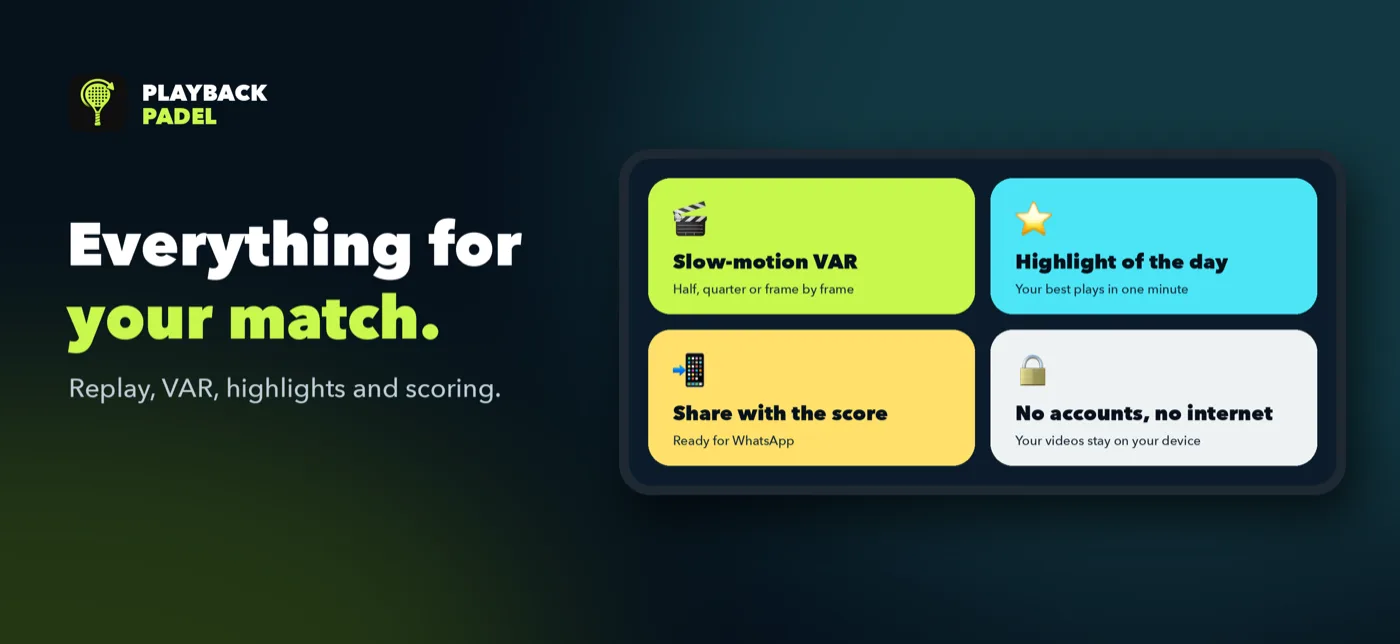
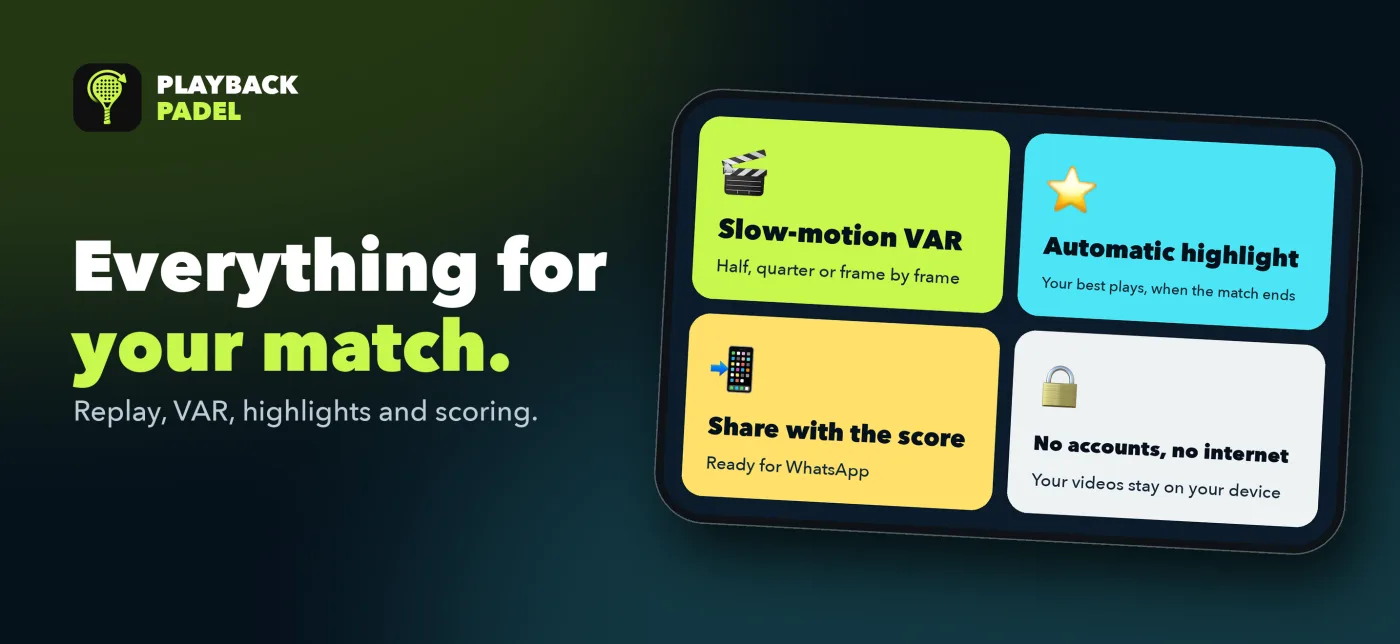
Pantallas de la versión 1.7 en la galería y slide de varias cámaras
Reemplaza las 4 capturas por las nuevas del App Store, agrega la slide ancha
de cámaras (es/en), actualiza el copy en los 8 idiomas y cache-bust ?v=2.

diff --git a/app.js b/app.js
@@ -37,7 +37,8 @@ const copy = {
     shotsEyebrow: 'LA APP POR DENTRO', shotsTitle: 'Así se ve<br>en la cancha.',
     shotScore: 'Marcador a pantalla completa, con sets, juegos y puntos.', shotScoreAlt: 'Marcador de PlayBack Padel a pantalla completa: Equipo A 40, Equipo B 30, con los sets',
     shotGestures: 'Tres gestos para manejar el partido sin tocar el celular.', shotGesturesAlt: 'Gestos de PlayBack Padel: señalar para sumar un punto, palma abierta para guardar la jugada y dos palmas para el VAR',
-    shotFeatures: 'VAR, highlight del día, compartir con marcador y sin cuentas.', shotFeaturesAlt: 'Funciones de PlayBack Padel: VAR en cámara lenta, highlight del día, compartir con marcador, sin cuentas ni internet',
+    shotFeatures: 'VAR, highlight automático, compartir con marcador y sin cuentas.', shotFeaturesAlt: 'Funciones de PlayBack Padel: VAR en cámara lenta, highlight automático, compartir con marcador, sin cuentas ni internet',
+    shotCameras: 'Todos los ángulos de cada punto, con varias cámaras conectadas.', shotCamerasAlt: 'Jugadas de PlayBack Padel con la insignia de varios ángulos y los botones para cambiar de cámara: Principal, iPad de Ana, iPhone de Bruno',
     shotHistory: 'Historial de partidos con sus jugadas.', shotHistoryAlt: 'Historial de partidos de PlayBack Padel',
     watchTitle: 'También en tu muñeca', watchText: 'Con el Apple Watch sumás puntos, deshacés, guardás la jugada y abrís el VAR sin tocar el iPhone de la reja. Es opcional.',
     watch1Alt: 'Apple Watch con el puntaje 40–30 y los botones +1, deshacer, guardar jugada y VAR', watch2Alt: 'Apple Watch con el aviso para activar el puntaje en el iPhone', watch3Alt: 'Apple Watch con el aviso de partido terminado',
@@ -92,7 +93,8 @@ const copy = {
     shotsEyebrow: 'INSIDE THE APP', shotsTitle: 'This is how it looks<br>on court.',
     shotScore: 'Full-screen scoreboard with sets, games and points.', shotScoreAlt: 'PlayBack Padel full-screen scoreboard: Team A 40, Team B 30, with the sets',
     shotGestures: 'Three gestures to run the match without touching the phone.', shotGesturesAlt: 'PlayBack Padel gestures: point to score, open palm to save the play, two palms for VAR',
-    shotFeatures: 'VAR, highlight of the day, share with the score and no accounts.', shotFeaturesAlt: 'PlayBack Padel features: slow-motion VAR, highlight of the day, share with the score, no accounts or internet',
+    shotFeatures: 'VAR, automatic highlight, share with the score and no accounts.', shotFeaturesAlt: 'PlayBack Padel features: slow-motion VAR, automatic highlight, share with the score, no accounts or internet',
+    shotCameras: 'Every angle of the point, with several cameras connected.', shotCamerasAlt: 'PlayBack Padel plays with the badge for several angles and the buttons to switch cameras: Main, iPad de Ana, iPhone de Bruno',
     shotHistory: 'Match history with its plays.', shotHistoryAlt: 'PlayBack Padel match history',
     watchTitle: 'On your wrist too', watchText: 'With the Apple Watch you add points, undo, save the play and open VAR without touching the iPhone on the fence. It is optional.',
     watch1Alt: 'Apple Watch showing the 40–30 score with +1, undo, save play and VAR buttons', watch2Alt: 'Apple Watch with the notice to turn scoring on on the iPhone', watch3Alt: 'Apple Watch with the match finished notice',
@@ -116,8 +118,8 @@ const copy = {
 // Screenshots differ by language only in their text, so each language names its own files.
 // The new languages reuse the English images and video (their text is part of the picture).
 const shots = {
-  es: { scoreboard: 'slide-es-scoreboard', gestures: 'slide-es-gestures', features: 'slide-es-features', matches: 'slide-es-matches', watch1: 'watch-es-01-partido', watch2: 'watch-es-02-puntaje-apagado', watch3: 'watch-es-03-partido-terminado' },
-  en: { scoreboard: 'slide-en-scoreboard', gestures: 'slide-en-gestures', features: 'slide-en-features', matches: 'slide-en-matches', watch1: 'watch-en-01-match', watch2: 'watch-en-02-scoring-off', watch3: 'watch-en-03-match-finished' }
+  es: { scoreboard: 'slide-es-scoreboard', gestures: 'slide-es-gestures', cameras: 'slide-es-cameras', features: 'slide-es-features', matches: 'slide-es-matches', watch1: 'watch-es-01-partido', watch2: 'watch-es-02-puntaje-apagado', watch3: 'watch-es-03-partido-terminado' },
+  en: { scoreboard: 'slide-en-scoreboard', gestures: 'slide-en-gestures', cameras: 'slide-en-cameras', features: 'slide-en-features', matches: 'slide-en-matches', watch1: 'watch-en-01-match', watch2: 'watch-en-02-scoring-off', watch3: 'watch-en-03-match-finished' }
 };
 
 // Spanish and English are here; every other language is a small file (copy/<code>.js) loaded only when it is needed.
@@ -161,7 +163,7 @@ function render() {
   document.title = text.title;
   document.querySelector('meta[name="description"]').setAttribute('content', text.description);
   document.querySelectorAll('[data-i18n]').forEach(el => { el.innerHTML = text[el.dataset.i18n]; });
-  document.querySelectorAll('[data-shot]').forEach(img => { img.src = `assets/shots/${shots[imageLanguage(lang)][img.dataset.shot]}.webp`; });
+  document.querySelectorAll('[data-shot]').forEach(img => { img.src = `assets/shots/${shots[imageLanguage(lang)][img.dataset.shot]}.webp?v=2`; });
   const demo = document.getElementById('demo-video');
   if (demo) {
     const media = imageLanguage(lang);

diff --git a/styles.css b/styles.css
@@ -2,7 +2,7 @@
 .notfound{min-height:100vh}
 .features h2{font-size:clamp(40px,4.4vw,64px);line-height:.95}
 
-.shots,.faq{padding:12vh 8vw}.shots{background:var(--paper)}.shot-row{display:grid;grid-template-columns:repeat(2,1fr);gap:28px;margin-top:40px}.shot{margin:0}.shot img{display:block;width:100%;height:auto;border-radius:18px;border:1px solid var(--line);background:var(--ink)}.shot figcaption{margin-top:12px;font-size:14px;font-weight:700}
+.shots,.faq{padding:12vh 8vw}.shots{background:var(--paper)}.shot-row{display:grid;grid-template-columns:repeat(2,1fr);gap:28px;margin-top:40px}.shot{margin:0}.shot.wide{grid-column:1/-1}.shot img{display:block;width:100%;height:auto;border-radius:18px;border:1px solid var(--line);background:var(--ink)}.shot figcaption{margin-top:12px;font-size:14px;font-weight:700}
 .watch-block{display:grid;grid-template-columns:1fr 1.3fr;gap:5vw;align-items:center;margin-top:64px;padding:36px;background:var(--ink);color:#fff;border-radius:24px}.watch-copy h3{margin:0 0 10px;font-size:clamp(24px,3vw,34px)}.watch-copy p{margin:0;line-height:1.6;color:rgba(255,255,255,.82)}.watch-shots{display:grid;grid-template-columns:repeat(3,1fr);gap:14px}.watch-shots figure{margin:0}.watch-shots img{display:block;width:100%;height:auto;border-radius:22px;background:#000}
 .shots-note{margin:22px 0 0;font-size:13px;opacity:.65}
 .faq{background:#fff;border-top:1px solid var(--line)}.faq-list{margin-top:36px;max-width:820px}.faq details{border-bottom:1px solid var(--line);padding:4px 0}.faq summary{cursor:pointer;list-style:none;padding:18px 36px 18px 0;font-size:18px;font-weight:800;position:relative}.faq summary::-webkit-details-marker{display:none}.faq summary::after{content:"+";position:absolute;right:4px;top:50%;transform:translateY(-50%);font-size:26px;font-weight:400}.faq details[open] summary::after{content:"–"}.faq details p{margin:0 0 20px;line-height:1.65;max-width:68ch}.faq summary:focus-visible{outline:3px solid var(--ink);outline-offset:2px}

diff --git a/index.html b/index.html
@@ -114,7 +114,8 @@
       <div class="shot-row">
         <figure class="shot"><img data-shot="scoreboard" data-i18n-alt="shotScoreAlt" alt="" width="1400" height="644" loading="lazy" decoding="async"><figcaption data-i18n="shotScore">Marcador a pantalla completa, con sets, juegos y puntos.</figcaption></figure>
         <figure class="shot"><img data-shot="gestures" data-i18n-alt="shotGesturesAlt" alt="" width="1400" height="644" loading="lazy" decoding="async"><figcaption data-i18n="shotGestures">Tres gestos para manejar el partido sin tocar el celular.</figcaption></figure>
-        <figure class="shot"><img data-shot="features" data-i18n-alt="shotFeaturesAlt" alt="" width="1400" height="644" loading="lazy" decoding="async"><figcaption data-i18n="shotFeatures">VAR, highlight del día, compartir con marcador y sin cuentas.</figcaption></figure>
+        <figure class="shot wide"><img data-shot="cameras" data-i18n-alt="shotCamerasAlt" alt="" width="1400" height="644" loading="lazy" decoding="async"><figcaption data-i18n="shotCameras">Todos los ángulos de cada punto, con varias cámaras conectadas.</figcaption></figure>
+        <figure class="shot"><img data-shot="features" data-i18n-alt="shotFeaturesAlt" alt="" width="1400" height="644" loading="lazy" decoding="async"><figcaption data-i18n="shotFeatures">VAR, highlight automático, compartir con marcador y sin cuentas.</figcaption></figure>
         <figure class="shot"><img data-shot="matches" data-i18n-alt="shotHistoryAlt" alt="" width="1400" height="644" loading="lazy" decoding="async"><figcaption data-i18n="shotHistory">Historial de partidos con sus jugadas.</figcaption></figure>
       </div>
       <div class="watch-block">

diff --git a/copy/fr.js b/copy/fr.js
@@ -66,8 +66,8 @@
   shotScoreAlt: "Tableau des scores en plein écran de PlayBack Padel : Équipe A 40, Équipe B 30, avec les sets",
   shotGestures: "Trois gestes pour mener le match sans toucher le téléphone.",
   shotGesturesAlt: "Gestes de PlayBack Padel : pointer pour marquer, paume ouverte pour enregistrer l'action, deux paumes pour la VAR",
-  shotFeatures: "VAR, temps forts de la journée, partage avec le score et pas de compte.",
-  shotFeaturesAlt: "Fonctions de PlayBack Padel : VAR au ralenti, temps forts de la journée, partage avec le score, pas de compte ni d'internet",
+  shotFeatures: "VAR, temps forts automatiques, partage avec le score et pas de compte.",
+  shotFeaturesAlt: "Fonctions de PlayBack Padel : VAR au ralenti, temps forts automatiques, partage avec le score, pas de compte ni d'internet",
   shotHistory: "Historique des matchs avec ses actions.",
   shotHistoryAlt: "Historique des matchs de PlayBack Padel",
   watchTitle: "Aussi à ton poignet",
@@ -96,6 +96,8 @@
   waitBadge: "Télécharger sur l'App Store",
   support: "Assistance",
   privacy: "Confidentialité",
+  shotCameras: "Tous les angles de chaque point, avec plusieurs caméras connectées.",
+  shotCamerasAlt: "Actions de PlayBack Padel avec l'indicateur de plusieurs angles et les boutons pour changer de caméra : Principal, iPad de Ana, iPhone de Bruno",
   supportUrl: "support/fr.html",
   privacyUrl: "privacy/fr.html"
 };

diff --git a/copy/it.js b/copy/it.js
@@ -66,8 +66,8 @@
   shotScoreAlt: "Tabellone a schermo intero di PlayBack Padel: Squadra A 40, Squadra B 30, con i set",
   shotGestures: "Tre gesti per gestire la partita senza toccare il telefono.",
   shotGesturesAlt: "Gesti di PlayBack Padel: indicare per segnare, palmo aperto per salvare la giocata, due palmi per il VAR",
-  shotFeatures: "VAR, highlight del giorno, condivisione con il punteggio e nessun account.",
-  shotFeaturesAlt: "Funzioni di PlayBack Padel: VAR al rallentatore, highlight del giorno, condivisione con il punteggio, nessun account né internet",
+  shotFeatures: "VAR, highlight automatico, condivisione con il punteggio e nessun account.",
+  shotFeaturesAlt: "Funzioni di PlayBack Padel: VAR al rallentatore, highlight automatico, condivisione con il punteggio, nessun account né internet",
   shotHistory: "Cronologia delle partite con le sue giocate.",
   shotHistoryAlt: "Cronologia delle partite di PlayBack Padel",
   watchTitle: "Anche al polso",
@@ -96,6 +96,8 @@
   waitBadge: "Scarica dall'App Store",
   support: "Assistenza",
   privacy: "Privacy",
+  shotCameras: "Tutte le angolazioni di ogni punto, con più fotocamere collegate.",
+  shotCamerasAlt: "Giocate di PlayBack Padel con l'indicatore di più angolazioni e i pulsanti per cambiare fotocamera: Principale, iPad de Ana, iPhone de Bruno",
   supportUrl: "support/it.html",
   privacyUrl: "privacy/it.html"
 };

diff --git a/copy/de.js b/copy/de.js
@@ -66,8 +66,8 @@
   shotScoreAlt: "Vollbild-Anzeigetafel von PlayBack Padel: Team A 40, Team B 30, mit den Sätzen",
   shotGestures: "Drei Gesten, um das Match zu steuern, ohne das Handy zu berühren.",
   shotGesturesAlt: "Gesten von PlayBack Padel: zeigen zum Zählen, offene Handfläche zum Speichern des Spielzugs, zwei Handflächen für das VAR",
-  shotFeatures: "VAR, Highlight des Tages, mit Spielstand teilen und keine Konten.",
-  shotFeaturesAlt: "Funktionen von PlayBack Padel: VAR in Zeitlupe, Highlight des Tages, mit Spielstand teilen, keine Konten und kein Internet",
+  shotFeatures: "VAR, automatisches Highlight, mit Spielstand teilen und keine Konten.",
+  shotFeaturesAlt: "Funktionen von PlayBack Padel: VAR in Zeitlupe, automatisches Highlight, mit Spielstand teilen, keine Konten und kein Internet",
   shotHistory: "Match-Verlauf mit seinen Spielzügen.",
   shotHistoryAlt: "Match-Verlauf von PlayBack Padel",
   watchTitle: "Auch am Handgelenk",
@@ -96,6 +96,8 @@
   waitBadge: "Laden im App Store",
   support: "Support",
   privacy: "Datenschutz",
+  shotCameras: "Jeder Blickwinkel jedes Punktes, mit mehreren verbundenen Kameras.",
+  shotCamerasAlt: "Spielzüge in PlayBack Padel mit dem Hinweis auf mehrere Blickwinkel und den Tasten zum Kamerawechsel: Hauptansicht, iPad de Ana, iPhone de Bruno",
   supportUrl: "support/de.html",
   privacyUrl: "privacy/de.html"
 };

diff --git a/copy/nl.js b/copy/nl.js
@@ -66,8 +66,8 @@
   shotScoreAlt: "Scorebord van PlayBack Padel op volledig scherm: Team A 40, Team B 30, met de sets",
   shotGestures: "Drie gebaren om de wedstrijd te besturen zonder de telefoon aan te raken.",
   shotGesturesAlt: "Gebaren van PlayBack Padel: wijzen om te tellen, open handpalm om het fragment te bewaren, twee handpalmen voor VAR",
-  shotFeatures: "VAR, highlight van de dag, delen met de stand en geen accounts.",
-  shotFeaturesAlt: "Functies van PlayBack Padel: VAR in slow motion, highlight van de dag, delen met de stand, geen accounts of internet",
+  shotFeatures: "VAR, automatische highlight, delen met de stand en geen accounts.",
+  shotFeaturesAlt: "Functies van PlayBack Padel: VAR in slow motion, automatische highlight, delen met de stand, geen accounts of internet",
   shotHistory: "Wedstrijdgeschiedenis met zijn fragmenten.",
   shotHistoryAlt: "Wedstrijdgeschiedenis van PlayBack Padel",
   watchTitle: "Ook om je pols",
@@ -96,6 +96,8 @@
   waitBadge: "Download in de App Store",
   support: "Support",
   privacy: "Privacy",
+  shotCameras: "Elke hoek van elk punt, met meerdere verbonden camera's.",
+  shotCamerasAlt: "Fragmenten in PlayBack Padel met de badge voor meerdere hoeken en de knoppen om van camera te wisselen: Hoofd, iPad de Ana, iPhone de Bruno",
   supportUrl: "support/nl.html",
   privacyUrl: "privacy/nl.html"
 };

diff --git a/copy/pt.js b/copy/pt.js
@@ -66,8 +66,8 @@
   shotScoreAlt: "Placar em tela cheia do PlayBack Padel: Equipe A 40, Equipe B 30, com os sets",
   shotGestures: "Três gestos para comandar a partida sem tocar no celular.",
   shotGesturesAlt: "Gestos do PlayBack Padel: apontar para marcar, palma aberta para salvar a jogada, duas palmas para o VAR",
-  shotFeatures: "VAR, highlight do dia, compartilhar com o placar e sem contas.",
-  shotFeaturesAlt: "Funções do PlayBack Padel: VAR em câmera lenta, highlight do dia, compartilhar com o placar, sem contas nem internet",
+  shotFeatures: "VAR, highlight automático, compartilhar com o placar e sem contas.",
+  shotFeaturesAlt: "Funções do PlayBack Padel: VAR em câmera lenta, highlight automático, compartilhar com o placar, sem contas nem internet",
   shotHistory: "Histórico de partidas com as suas jogadas.",
   shotHistoryAlt: "Histórico de partidas do PlayBack Padel",
   watchTitle: "Também no seu pulso",
@@ -96,6 +96,8 @@
   waitBadge: "Baixar na App Store",
   support: "Suporte",
   privacy: "Privacidade",
+  shotCameras: "Todos os ângulos de cada ponto, com várias câmeras conectadas.",
+  shotCamerasAlt: "Jogadas do PlayBack Padel com o indicador de vários ângulos e os botões para trocar de câmera: Principal, iPad de Ana, iPhone de Bruno",
   supportUrl: "support/pt.html",
   privacyUrl: "privacy/pt.html"
 };

diff --git a/copy/sv.js b/copy/sv.js
@@ -66,8 +66,8 @@
   shotScoreAlt: "PlayBack Padels resultattavla i helskärm: Lag A 40, Lag B 30, med seten",
   shotGestures: "Tre gester för att styra matchen utan att röra telefonen.",
   shotGesturesAlt: "PlayBack Padels gester: peka för att räkna poäng, öppen handflata för att spara klippet, två handflator för VAR",
-  shotFeatures: "VAR, dagens höjdpunkter, dela med ställningen och inga konton.",
-  shotFeaturesAlt: "PlayBack Padels funktioner: VAR i slow motion, dagens höjdpunkter, dela med ställningen, inga konton eller internet",
+  shotFeatures: "VAR, automatiska höjdpunkter, dela med ställningen och inga konton.",
+  shotFeaturesAlt: "PlayBack Padels funktioner: VAR i slow motion, automatiska höjdpunkter, dela med ställningen, inga konton eller internet",
   shotHistory: "Matchhistorik med sina klipp.",
   shotHistoryAlt: "PlayBack Padels matchhistorik",
   watchTitle: "Även på handleden",
@@ -96,6 +96,8 @@
   waitBadge: "Ladda ner i App Store",
   support: "Support",
   privacy: "Integritet",
+  shotCameras: "Alla vinklar av varje poäng, med flera anslutna kameror.",
+  shotCamerasAlt: "Klipp i PlayBack Padel med märket för flera vinklar och knapparna för att byta kamera: Huvud, iPad de Ana, iPhone de Bruno",
   supportUrl: "support/sv.html",
   privacyUrl: "privacy/sv.html"
 };
